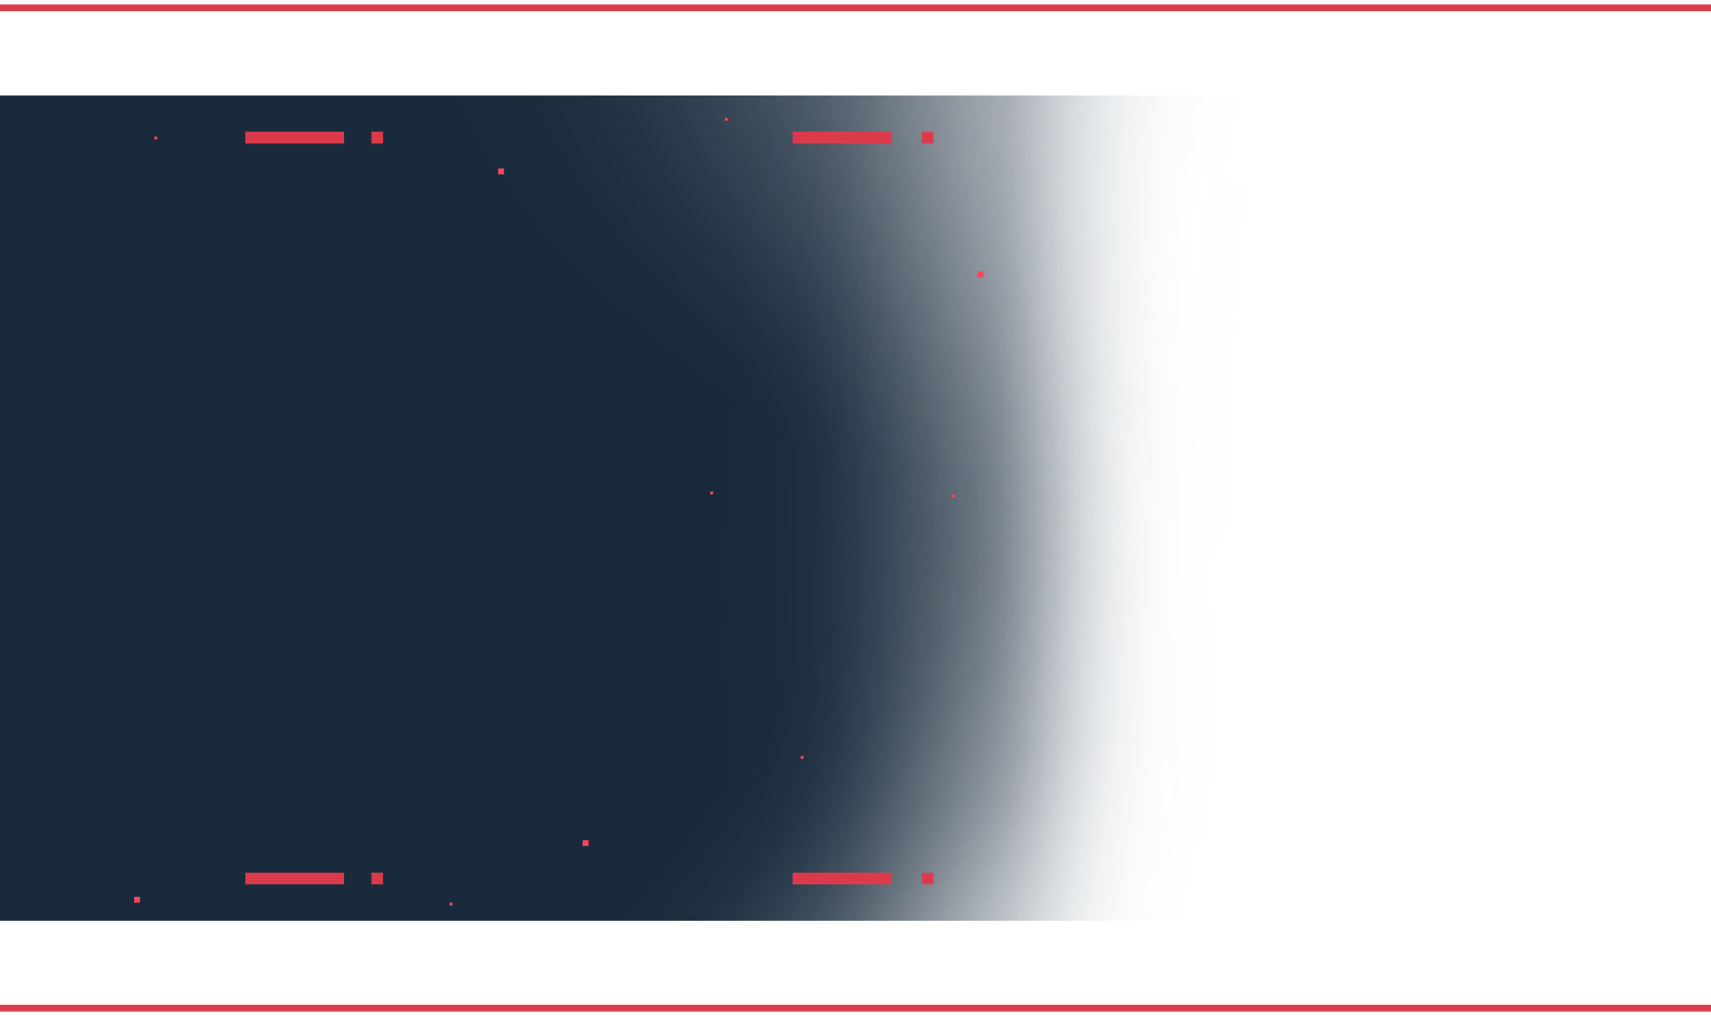
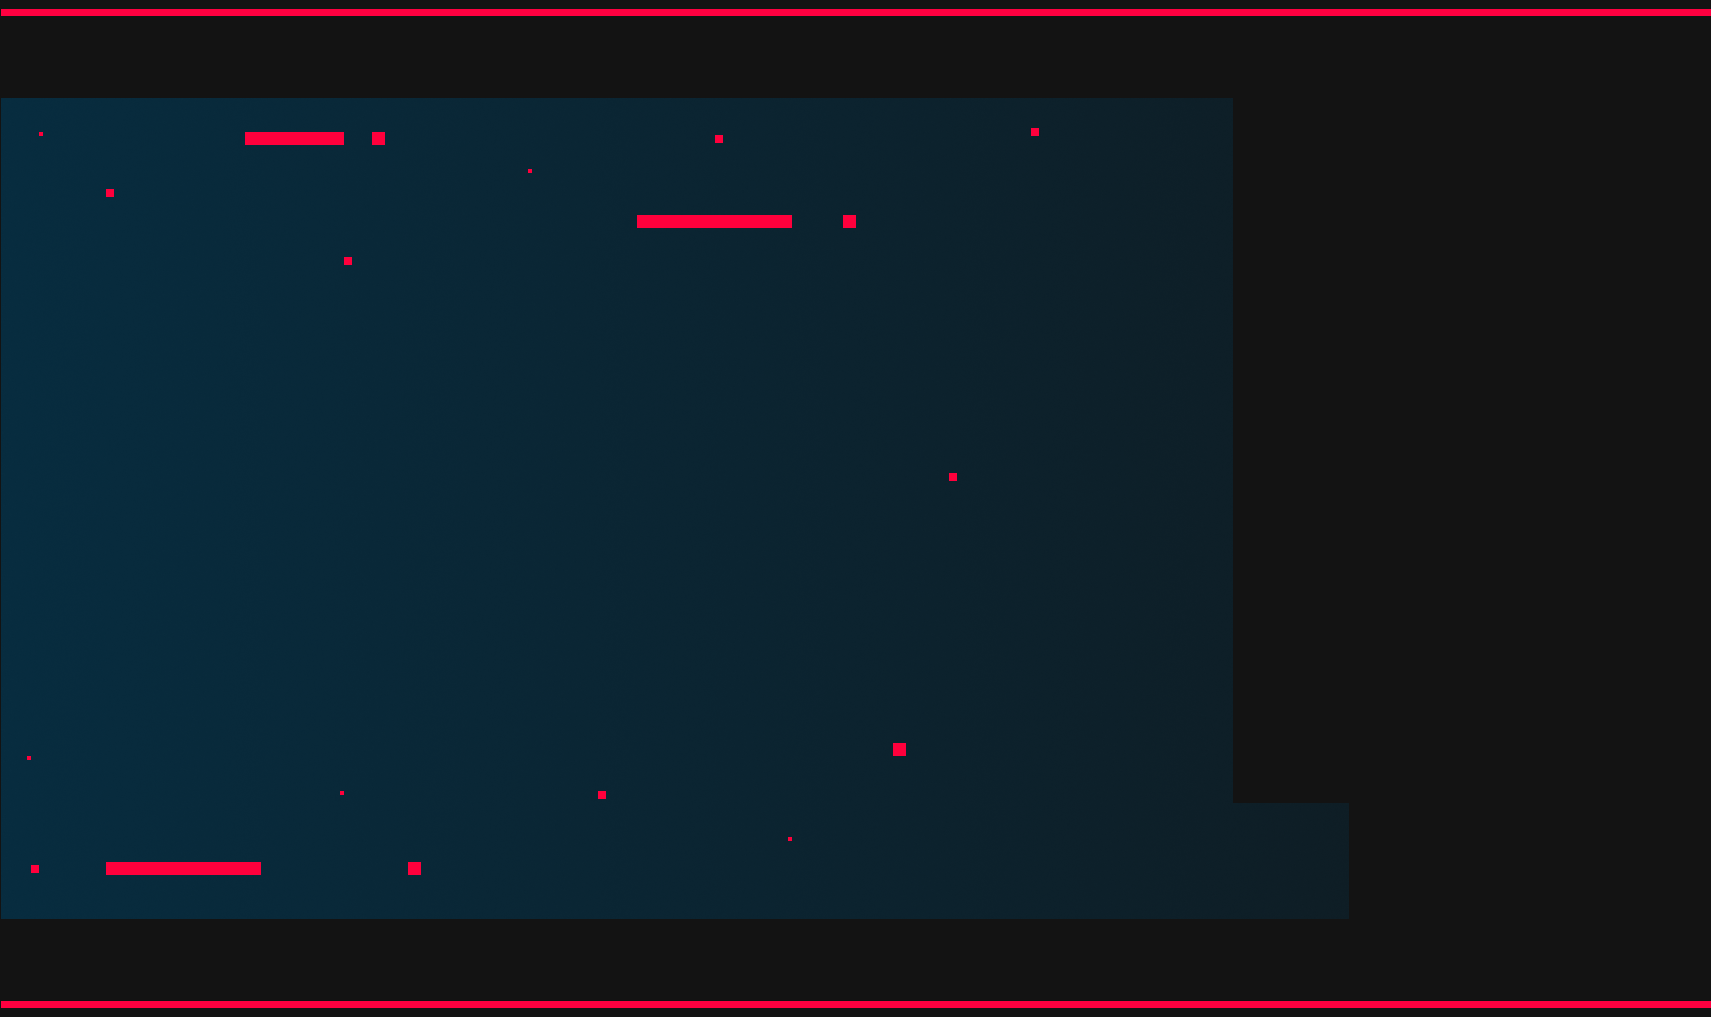
adjust z-index ; change nav list, main text, background colors; modify neon img

diff --git a/styles.css b/styles.css
@@ -65,7 +65,7 @@ header{
 
 .nav-list a{
     position: relative;
-    color: #ff4655;
+    color: #f5f5f5;
     margin-right: 60px;
     font-size: 20px;
     font-family: "Source Code Pro", monospace;
@@ -134,7 +134,7 @@ header{
     display: block;
     font-size: 140px;
     font-weight: 700;
-    color: #ffffff;
+    color: #f5f5f5;
     margin: 0;
 }
 
@@ -148,7 +148,7 @@ header{
 .main-text p{
     display: block;
     font-size: 20px;
-    color: #ffffff;
+    color: #f5f5f5;
     margin: 0;
     width: 40%;
     text-align: justify;
@@ -216,7 +216,7 @@ header{
 
 .inner-modal{
     position: relative;
-    background-color: #f3f3f3;
+    background-color: #f5f5f5;
     border-radius: 20px;
     padding: 15px 25px;
     text-align: center;
@@ -235,7 +235,7 @@ header{
     position: absolute;
     height: 100%;
     width: 100%;
-    background-image: conic-gradient(from var(--angle), #f3f3f3, #006eff, #e9e94a, #006eff, #e9e94a, #006eff, #f3f3f3 );
+    background-image: conic-gradient(from var(--angle), #f5f5f5, #006eff, #e9e94a, #006eff, #e9e94a, #006eff, #f5f5f5 );
     top: 50%;
     left: 50%;
     translate: -50% -50%;
@@ -277,5 +277,6 @@ header{
     height: auto;
     border-radius: 20px;
 }
+
 
 

diff --git a/script.js b/script.js
@@ -1,4 +1,6 @@
 document.addEventListener("DOMContentLoaded", function () {
+    const header = document.querySelector("header"); // Declara la variable header
+    
     function setupModal(modalNumber) {
         const openBtn = document.getElementById(`openModal${modalNumber}`);
         const closeBtn = document.getElementById(`closeModal${modalNumber}`);
@@ -6,19 +8,22 @@ document.addEventListener("DOMContentLoaded", function () {
     
         openBtn.addEventListener("click", () => {
             modal.classList.add("open");
+            header.style.zIndex = "-2"; // Baja el z-index del header
         });
     
         closeBtn.addEventListener("click", () => {
             modal.classList.remove("open");
+            header.style.zIndex = "999"; // Restaura el z-index del header
         });
     
         window.addEventListener("click", (event) => {
             if (event.target === modal) {
                 modal.classList.remove("open");
+                header.style.zIndex = "1000";
             }
         });
     }
-
+    
     for (let i = 1; i <= 4; i++) {
         setupModal(i);
     }
